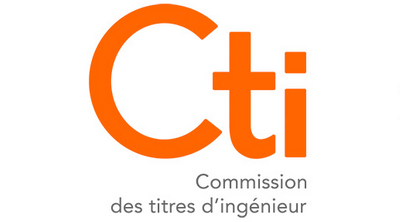
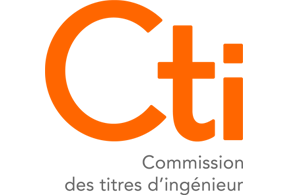
Images updated

diff --git a/app/sections/Hero.tsx b/app/sections/Hero.tsx
@@ -78,11 +78,11 @@ export function Hero() {
                   alt="School Logo"
                   width={300}
                   height={100}
-                  className="h-24 w-auto"
+                  className="h-24 w-auto object-contain"
                 />
-                <p className="text-muted-foreground text-sm">
+                {/* <p className="text-muted-foreground text-sm text-center">
                   Centrale Lille - IG2I
-                </p>
+                </p> */}
               </div>
               <Separator orientation="vertical" className="h-100 hidden xl:block" />
               <Separator orientation="horizontal" className="w-full block xl:hidden" />
@@ -92,11 +92,11 @@ export function Hero() {
                   alt="CTI Logo"
                   width={300}
                   height={100}
-                  className="h-24 w-auto"
+                  className="h-24 w-auto object-contain"
                 />
-                <p className="text-muted-foreground text-sm">
+                {/* <p className="text-muted-foreground text-sm text-center">
                   Commission des Titres d'Ingénieur
-                </p>
+                </p> */}
               </div>
               <Separator orientation="vertical" className="h-100 hidden xl:block" />
               <Separator orientation="horizontal" className="w-full block xl:hidden" />
@@ -106,9 +106,9 @@ export function Hero() {
                   alt="Notre logo"
                   width={300}
                   height={100}
-                  className="h-24 w-auto"
+                  className="h-24 w-auto object-contain"
                 />
-                <p className="text-muted-foreground text-sm">Notre logo</p>
+                {/* <p className="text-muted-foreground text-sm text-center">Notre logo</p> */}
               </div>
             </div>
           </FadeInComponent>
